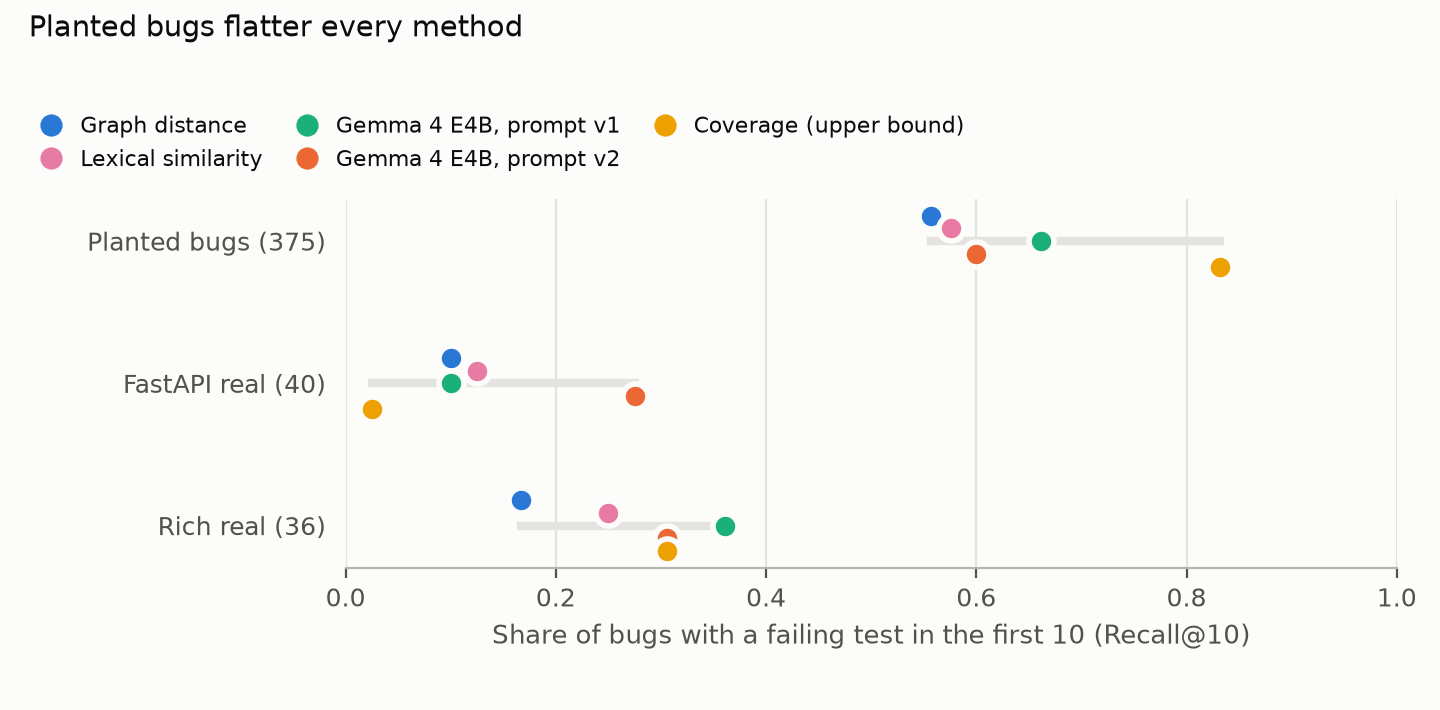
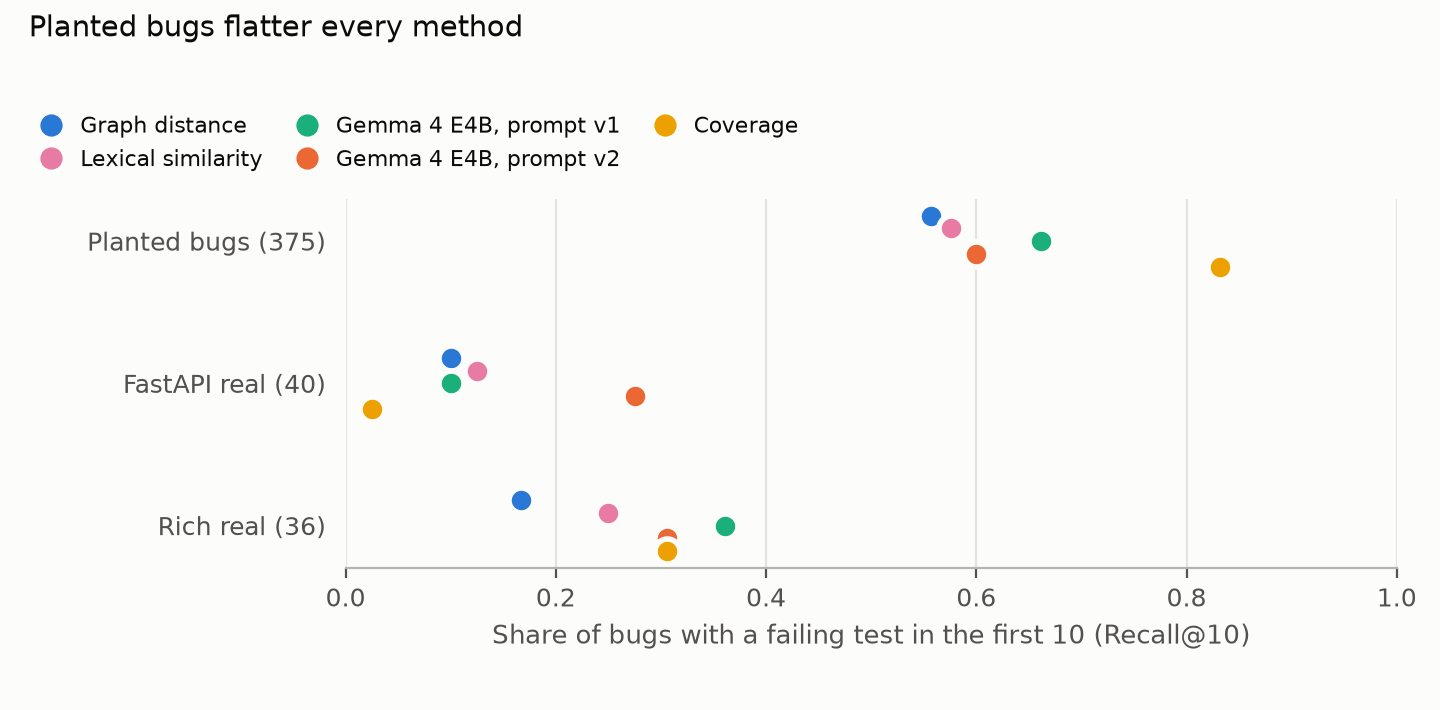
Stranger-test fixes; writeup body

diff --git a/paper/writeup_body.md b/paper/writeup_body.md
@@ -1,55 +1,58 @@
-**Summary.** A new use of code graphs: deciding which tests to run first after an edit. A small local Gemma 4 model lifts planted-bug Recall@10 from 56% to 66%; on 76 real regressions replayed from the competition's own tasks the picture is harder and more mixed, and we report all of it.
+## Key findings
 
+**Takeaway:** order tests by code-graph distance, add a small local model in parallel, and judge the result on real regressions, because planted bugs make every method look better than it is.
 
-*Dhiraj Kavuri*
+We measure Recall@10, the share of bugs whose failing test is among the first 10 tests run. *Planted* bugs are one-operator edits we injected; *real* regressions undo genuine fixes from the competition's own tasks.
+
+- **On planted bugs, a small local model helps.** Graph distance puts a failing test in the first 10 for 56% of 375 bugs; Gemma 4 E4B re-ranking raises that to 66% (+10.4 points, 95% interval +6.7 to +14.1), mostly by finding tests the graph cannot reach, such as tests that call dunder methods through Python syntax.
+- **Planted bugs flatter every method.** On 76 real regressions from the competition's FastAPI and Rich tasks, the best method reaches at most 42%. Our pre-registered prompt helps on Rich but not FastAPI; a second prompt that also shows the model tests sharing words with the change fixes FastAPI but did not pass its held-out test on Rich.
+- **The competition's provided graph links few tests to code.** Only 285 of its 2,752 call edges run from tests into FastAPI code, and it reaches fewer failing tests than a plain AST graph.
+- **The model's latency can cost nothing.** Started in parallel with graph-distance tests, it never slowed the loop on average in our data.
 
 ## Abstract
 
-A coding agent on a laptop checks its edits by running tests, and full runs are slow. We study regression test selection for this setting: after a change, order the tests so a failing one comes early. On 375 single-operator bugs planted in five Python repositories, including the competition's FastAPI snapshot, graph distance in a static call graph puts a failing test in the first 10 for 56% of bugs; Gemma 4 E2B and E4B re-ranking raise this to 61% and 66% (paired gains of 5.6 and 10.4 points, intervals above zero), mostly by finding tests the graph cannot reach. The competition's provided graph reaches fewer failing tests than a plain AST graph. We then replay 76 real regressions by undoing real fixes from the competition's FastAPI and Rich tasks. Every method does far worse; the pre-registered prompt adds nothing on FastAPI but E4B gains 19 points on held-out Rich, and a second prompt designed on FastAPI did not pass its pre-registered held-out test. Started in parallel with graph-distance tests, the model never slows the loop. Analysis plans were hashed before the runs they cover; a public notebook rebuilds every number from cached model answers.
+A coding agent on a laptop checks its edits by running tests, and full runs are slow. We study regression test selection for this setting: after a change, order the tests so a failing one comes early. We plant 375 single-operator bugs in five Python repositories, including the competition's FastAPI snapshot, and replay 76 real regressions by undoing real fixes from the competition's FastAPI and Rich tasks. We compare six non-model methods, the competition's provided graph and embeddings, and Gemma 4 E2B and E4B re-ranking. The models help clearly on planted bugs and unevenly on real ones: the pre-registered prompt adds nothing on FastAPI but E4B gains 19 points on held-out Rich, and a second prompt designed on FastAPI did not pass its pre-registered held-out test. We release the benchmark, a drop-in skill for the competition's agent harness, and a notebook that rebuilds every number from cached model answers.
 
 ## 1. Introduction
 
 Coding agents fix bugs in a loop: read, edit, run tests, repeat. This competition asks how far that loop can go with Gemma 4 on one accelerator under a time budget, and every full test run spends budget. Developers have the same problem on their own machines.
 
-Regression test selection asks which tests to run first after a change. Classic tools use static dependencies or recorded coverage; agent scaffolds ask a large hosted model. We ask whether a small local model, given a code graph like the one the competition gives its agents, helps, and when its latency is worth paying. The task suits a small model: it ranks a few dozen candidates, and the static graph has blind spots (inheritance, decorators, syntax-driven calls) where reading code helps.
+Regression test selection asks which tests to run first after a change. Classic tools use static dependencies or recorded coverage; agent scaffolds ask a large hosted model. We ask whether a small local model, given a code graph like the one the competition gives its agents, helps, and when its latency is worth paying.
 
 Contributions:
-1. 375 planted bugs in five repositories and 76 real regressions replayed from the competition's FastAPI and Rich tasks, with full kill matrices (which tests fail for each bug), released with the code that rebuilds them.
-2. Six non-model methods, the competition's graph and embeddings, and two Gemma 4 sizes compared on the same bugs, with an analysis plan fixed in advance.
-3. Evidence that planted bugs overstate test selection, and a schedule under which the model's latency costs nothing.
+1. The first study, to our knowledge, of code graphs and small local models for test selection, scored directly against kill matrices (which tests fail for each bug).
+2. A replay benchmark: 76 real regressions built from the competition's own tasks, plus 375 planted bugs, released with the code that rebuilds them.
+3. Evidence that planted bugs overstate test selection, a schedule under which the model's latency costs nothing, and a ready-to-use skill for the competition's harness.
 
-## 2. Task and data
+## 2. Data
 
-**Repositories.** Four small pure-Python libraries (cachetools, toolz, humanize, sortedcontainers) and FastAPI at the competition's snapshot for task `fastapi_15800` (commit `f1d750f`), so that the competition's provided code graph and node embeddings match the code exactly. Measured on one core, the suites take from 2 to 31 seconds. Commits are pinned in the notebook.
+**Planted bugs.** Four small libraries (cachetools, toolz, humanize, sortedcontainers) and FastAPI at the competition's snapshot for task `fastapi_15800`, so the provided graph and embeddings match the code. In each, we swap one operator (comparison, arithmetic, `and`/`or`, boolean or 0/1 constant) at a uniformly sampled site, run the full suite, and keep the bug only if a test that passes on the original now fails: 80 per library, 60 for FastAPI, 375 after dropping five whose failing tests were missing from the profiling run. Suites take 2 to 31 seconds on one core.
 
-**Bugs.** For each repository we parse every source module, list the sites where one operator can be swapped (comparisons, arithmetic, `and`/`or`, boolean and 0/1 constants), sample sites uniformly with a fixed seed, apply one swap, and run the full suite. A mutant is kept only if at least one test that passes on the original code now fails. We stop at 80 kept mutants per small library and 60 for FastAPI. Five mutants whose failing tests were missing from the clean profiling run are dropped, leaving 375. Planted bugs are a common stand-in for real faults when ground truth must be exact (Just et al., 2014); Section 4.5 adds real regressions.
+**Real regressions.** For each competition task whose fix edits an existing function, we check out the base commit with its own dependencies, apply the fix and its tests, then undo the fix. Tests that pass with the fix and fail without it are the ground truth. 40 FastAPI and 36 Rich tasks qualified (median 1 to 2 failing tests); tasks adding new code, timing out, or failing with the fix applied were dropped.
 
-**Ground truth and cost.** For every kept bug we store the ids of all failing tests. One extra clean run records each test's runtime and, with coverage.py's per-test contexts, which lines each test executed.
+**Profiles.** One clean run per repository state records each test's runtime and, with coverage.py's per-test contexts, the lines it executed.
 
 ## 3. Methods
 
-Every method returns a full ordering of the suite; a partial ranking is completed in the suite's default order.
+Every method returns a full ordering; a partial ranking is completed in default order.
 
 - **Full suite**: pytest's default order.
-- **Name match**: tests whose name contains the changed function's name, or whose file contains the module's name, first.
-- **Reachability**: tests from which the changed function is reachable in the static call graph first.
-- **Graph distance**: reachable tests by shortest-path length to the changed function.
+- **Name match**: tests whose name or file contains the changed function's or module's name.
+- **Reachability** and **graph distance**: tests that reach the changed function in a static call graph, the second ordered by shortest-path length.
 - **Lexical similarity**: TF-IDF cosine between the changed function's source and each test's source.
-- **Coverage**: tests that executed the changed line first. It needs a recorded run of every test, so it is an upper bound, not a competitor.
+- **Coverage**: tests that executed the changed line (on real regressions, the changed function). It needs a recorded run of every test. On planted bugs it is an upper bound; on real regressions it is not, because the failing tests are usually new tests written with the fix, which cover the function no more than hundreds of older tests do.
 - **Provided graph and embeddings** (FastAPI): graph distance over the competition's call graph, and cosine of its 256-dimensional node embeddings.
-- **Gemma re-rank**: Gemma 4 E2B or E4B (4-bit QAT, Ollama, temperature 0) sees the diff, the function's source, its callers and callees, the 30 nearest tests by graph distance, and the names of other tests (at most 600, alphabetical). It returns up to 15 entries, candidate numbers or other test names (at most five); unknown names are dropped and counted. Its list goes first, then the graph-distance order.
+- **Gemma re-rank**: Gemma 4 E2B or E4B (4-bit QAT, Ollama, temperature 0) sees the diff, the function's source, its callers and callees, and candidate tests, and returns up to 15 entries. **Prompt v1** (pre-registered) gives the 30 nearest tests by graph distance plus up to 600 other test names. **Prompt v2** (written after the FastAPI real results) gives 15 graph and 15 lexical candidates plus the full list of test files. The model's list goes first, then graph distance.
 
-**Code graph.** A symbol graph from Python ASTs with `contains`, `calls` and `imports` edges, the node and edge types of the competition's graphs. Calls are resolved by name; names matching more than eight definitions are skipped.
+**Code graph.** Built from Python ASTs with `contains`, `calls` and `imports` edges, the node and edge types of the competition's graphs; calls are resolved by name.
 
-**Metrics** (fixed in the plan). Primary: Recall@k, the share of bugs with a failing test in the first k, for k = 1, 5, 10 and 10% of the suite. Secondary: time to first failure (test runtimes up to the first failing test, plus model wall time), recovered static misses, and break-even suite runtime. 95% bootstrap intervals over bugs, stratified by repository, 10,000 resamples.
+**Metrics** (fixed in the plan). Recall@k: the share of bugs with a failing test in the first k (k = 1, 10, and 10% of the suite). Time to first failure: test runtime up to the first failing test, plus model time. 95% bootstrap intervals, stratified by repository, 10,000 resamples.
 
 ## 4. Results
 
-### 4.1 Which tests come first
+### 4.1 Planted bugs
 
-Table 1 pools all 375 bugs. The default order finds a failing test within the first 10 tests for 12% of bugs, graph distance for 56%, lexical similarity for 58%, Gemma 4 E2B for 61% and E4B for 66%. Coverage, which needs a recorded run of every test, reaches 83%.
-
-**Table 1.** Share of bugs with a failing test among the first k tests (n = 375), 95% bootstrap intervals.
+**Table 1.** Share of planted bugs with a failing test among the first k tests (n = 375).
 
 | Method | k = 1 | k = 10 | 10% of suite |
 |---|---|---|---|
@@ -64,47 +67,31 @@ Table 1 pools all 375 bugs. The default order finds a failing test within the fi
 
 ![Figure 1](https://raw.githubusercontent.com/kinnuworks/which-tests-first/master/paper/figs/fig1_recall_at_k.png)
 
-**Figure 1.** Share of bugs caught within the first k tests, pooled over 375 bugs.
+**Figure 1.** Share of planted bugs caught within the first k tests.
 
-The pre-registered comparison is the paired difference in Recall@10 against graph distance. E2B adds 5.6 points [+3.2, +8.3] and E4B adds 10.4 points [+6.7, +14.1]. Against lexical similarity, a comparison we added after seeing that it was strong, E4B adds 8.5 points [+2.9, +13.9], while the E2B difference (+3.7 [−1.9, +9.1]) is not distinguishable from zero.
+The pre-registered comparison is the paired difference in Recall@10 against graph distance: E2B +5.6 points [+3.2, +8.3], E4B +10.4 [+6.7, +14.1]. Against lexical similarity (added after seeing it was strong), E4B gains 8.5 points [+2.9, +13.9] and E2B is not distinguishable from zero.
 
-The gain is uneven across repositories (Table 2). It is largest where the static graph is blind. In cachetools, 48 of 79 bugs had no failing test reachable in the graph, largely because much of the behaviour sits in dunder methods (`__contains__`, `__iter__`, `__setitem__`) that tests call through Python syntax, not by name. There E4B lifts Recall@10 from 0.42 to 0.62. On humanize, where every bug was reachable, the models match graph distance. On sortedcontainers, lexical similarity beats both models.
+**Table 2.** Recall@10 by repository. "Misses": bugs with no failing test reachable in our static graph.
 
-**Table 2.** Recall@10 by repository. "Misses" counts bugs for which no failing test is reachable in our static graph.
+| Repository | Bugs | Suite (s) | Misses | Graph dist. | Lexical | E2B | E4B | Coverage |
+|---|---|---|---|---|---|---|---|---|
+| cachetools | 79 | 1.9 | 48 | 0.42 | 0.54 | 0.53 | 0.62 | 0.78 |
+| toolz | 78 | 2.0 | 24 | 0.67 | 0.76 | 0.74 | 0.81 | 0.96 |
+| humanize | 80 | 1.9 | 0 | 0.69 | 0.39 | 0.71 | 0.68 | 0.88 |
+| sortedcontainers | 78 | 23.5 | 16 | 0.62 | 0.83 | 0.65 | 0.77 | 0.91 |
+| FastAPI (snapshot) | 60 | 31.3 | 29 | 0.35 | 0.30 | 0.37 | 0.37 | 0.57 |
 
-| Repository | Bugs | Tests | Suite (s) | Misses | Graph dist. | Lexical | E2B | E4B | Coverage |
-|---|---|---|---|---|---|---|---|---|---|
-| cachetools | 79 | 416 | 1.9 | 48 | 0.42 | 0.54 | 0.53 | 0.62 | 0.78 |
-| toolz | 78 | 192 | 2.0 | 24 | 0.67 | 0.76 | 0.74 | 0.81 | 0.96 |
-| humanize | 80 | 746 | 1.9 | 0 | 0.69 | 0.39 | 0.71 | 0.68 | 0.88 |
-| sortedcontainers | 78 | 366 | 23.5 | 16 | 0.62 | 0.83 | 0.65 | 0.77 | 0.91 |
-| FastAPI (snapshot) | 60 | 3,207 | 31.3 | 29 | 0.35 | 0.30 | 0.37 | 0.37 | 0.57 |
+The gain is largest where the static graph is blind. In cachetools, 48 of 79 bugs had no failing test reachable in the graph, largely because behaviour sits in dunder methods (`__contains__`, `__iter__`) that tests call through syntax, not by name; there E4B lifts Recall@10 from 0.42 to 0.62. For a bug in `TTLCache.__iter__`, graph distance puts the first failing test at position 412 and E4B puts `test_ttl_iter_expired` second. Across the 117 bugs the graph cannot reach, E4B proposed a failing test from outside its reach for 40. Proposals cost precision: for 135 of the 181 bugs where E4B proposed outside tests, none of them failed, and it named 174 tests that do not exist.
 
-### 4.2 What the model adds: tests the graph cannot reach
+On the FastAPI snapshot, the competition's provided graph reached a failing test less often than our AST graph (Recall@10 0.22 [0.12, 0.32] against 0.35 [0.23, 0.47]), and its embeddings did about as well as lexical similarity (0.32 against 0.30). Only 285 of its 2,752 call edges run from tests into FastAPI code. Adding test-to-code edges, for example by resolving calls made through the `TestClient`, would make the provided graph far more useful for this task.
 
-For the 117 planted bugs where the static graph reaches no failing test, E4B proposed a failing test from outside its reach for 40 and E2B for 18. For a bug in `TTLCache.__iter__`, graph distance puts the first failing test at position 412 and E4B puts `test_ttl_iter_expired` second; for `TLRUCache.__contains__` it is 347 against 5. Proposals cost precision: E4B proposed outside tests for 181 bugs and none failed in 135 of them, named 174 tests that do not exist, and returned invalid JSON 28 times in 375.
+### 4.2 Real regressions
 
-### 4.3 The provided code graph and embeddings
+![Figure 3](https://raw.githubusercontent.com/kinnuworks/which-tests-first/master/paper/figs/fig3_planted_vs_real.png)
 
-On the FastAPI snapshot we also ranked tests with the competition's own graph and embeddings. The provided graph reached a failing test less often than our AST graph (Recall@10 0.22 [0.12, 0.32] against 0.35 [0.23, 0.47]): only 285 of its 2,752 call edges run from tests into FastAPI code. The provided embeddings did about as well as lexical similarity (0.32 against 0.30). Neither model beat graph distance here (both 0.37), while coverage reached 0.57, plausibly because most FastAPI tests reach the changed code through the `TestClient` and the framework's request handling, which a name-resolved graph does not see.
+**Figure 3.** Recall@10 on planted bugs and on real regressions. Dots are offset vertically so none hide.
 
-### 4.4 When is the model worth its latency?
-
-Median model time per change was 2.5 s for E2B and 13.9 s for E4B. On our suites graph distance usually reaches a failing test within a fraction of a second, so run first, the model loses on time everywhere (Figure 2).
-
-![Figure 2](https://raw.githubusercontent.com/kinnuworks/which-tests-first/master/paper/figs/fig2_time_to_failure.png)
-
-**Figure 2.** Median seconds until the first failing test, model time included for Gemma rows (log scale).
-
-Scaling every test's runtime by s while model time stays fixed, the model's mean time to first failure drops below graph distance's at a pooled suite of about 15 minutes (E4B) to 16 minutes (E2B) on one core.
-
-The latency need not be paid in sequence. In a **hybrid schedule** tests start at once in graph-distance order while the model thinks, then switch to the model's order, skipping tests already run. On our suites the hybrid is never slower on average (pooled 1.47 s vs 1.49 s), because fast suites find the bug before the model answers. With runtimes scaled by 10, 100 and 300, the E4B hybrid reaches the first failure 9%, 11% and 14% sooner than graph distance. Both analyses were not in the plan and assume uniform slow-down; they are guides, not measurements.
-
-### 4.5 Real regressions
-
-To test real bugs we replayed the competition's tasks for two repositories. For each task whose fix edits an existing function, we checked out the base commit with its dependencies, applied the fix and its tests, then undid the fix; tests that pass with the fix and fail without it are the ground truth. 40 FastAPI and 36 Rich tasks qualified (median 1 to 2 failing tests); tasks adding new code, timing out or failing with the fix were dropped. Coverage here spans the whole changed function.
-
-**Table 3.** Real regressions (fix undone): Recall@10 with 95% bootstrap intervals over tasks, and median rank of the first failing test.
+**Table 3.** Real regressions (fix undone): Recall@10, and median rank of the first failing test.
 
 | Method | FastAPI (40) | rank | Rich (36) | rank |
 |---|---|---|---|---|
@@ -116,29 +103,45 @@ To test real bugs we replayed the competition's tasks for two repositories. For 
 | E2B, prompt v2 | 0.25 [0.12, 0.40] | 189 | 0.42 [0.25, 0.58] | 27 |
 | E4B, prompt v2 | 0.28 [0.15, 0.42] | 199 | 0.31 [0.17, 0.47] | 21 |
 
-Every method does far worse than on planted bugs. The failing tests are usually the ones written with the fix, and the changed functions are run by hundreds of other tests, so coverage ranks them late on FastAPI. With the pre-registered prompt (v1), the models add nothing on FastAPI, where only 4 of 40 tasks had a failing test among the 30 graph candidates and the list of other names was cut at 600 of about 3,200. On Rich, which we built afterwards and did not tune on, E4B with prompt v1 beats graph distance by 19.4 points [+8.3, +33.3].
+Every method does far worse than on planted bugs (Figure 3). The failing tests are usually the ones written with the fix, and the changed functions are run by hundreds of other tests, so even coverage ranks them late on FastAPI.
 
-From the FastAPI diagnosis we wrote prompt v2: 15 candidates from graph distance and 15 from lexical similarity, and the full list of test files. We froze an addendum before running it anywhere else. On FastAPI (post hoc) it lifts E4B to 0.28. On held-out Rich, the pre-registered test, E4B v2 minus graph distance, gave +13.9 points with an interval of [0.0, +27.8], so it is not confirmed; E2B v2 gained +25.0 [+11.1, +38.9]. On the planted bugs v2 helps E2B (0.61 to 0.66) and hurts E4B (0.66 to 0.60). No prompt wins everywhere, lexical similarity is a strong cheap baseline on real regressions, and planted-bug benchmarks overstate how well any method selects tests.
+With the pre-registered prompt, the models add nothing on FastAPI: only 4 of 40 tasks had a failing test among the 30 graph candidates, and the new tests were rarely in the 600 other names. On Rich, built afterwards and never tuned on, E4B with prompt v1 beats graph distance by 19.4 points [+8.3, +33.3].
+
+Prompt v2 fixes the FastAPI blind spot (E4B 0.28, post hoc). We froze its held-out test before running it anywhere else, and in plain words it failed: a prompt tuned on one repository did not reliably transfer to another (Rich, E4B v2 minus graph distance +13.9 points, interval [0.0, +27.8]). E2B with v2 did transfer (+25.0 [+11.1, +38.9]), and on planted bugs v2 helps E2B (0.61 to 0.66) but hurts E4B (0.66 to 0.60).
+
+### 4.3 What it costs an agent
+
+Median model time per change was 2.5 s for E2B and 13.9 s for E4B. Graph distance usually reaches a failing planted bug within a fraction of a second, so run first, the model loses on time (Figure 2).
+
+![Figure 2](https://raw.githubusercontent.com/kinnuworks/which-tests-first/master/paper/figs/fig2_time_to_failure.png)
+
+**Figure 2.** Median seconds until the first failing test, model time included for Gemma rows (log scale).
+
+The latency need not be paid in sequence. In a **hybrid schedule** tests start at once in graph-distance order while the model thinks, then switch to the model's order, skipping tests already run. It was never slower on average on our suites (pooled 1.47 s against 1.49 s), and with test runtimes scaled by 10, 100 and 300 the E4B hybrid reached the first failure 9%, 11% and 14% sooner than graph distance. On the real regressions, whose suites take a median 12 to 14 s per run, E4B with prompt v2 reached the first failing test after a median 0.6 s (FastAPI) and 0.3 s (Rich) of test time, against 1.6 s and 2.9 s for graph distance. These latency analyses were not in the plan and are guides, not measurements.
+
+### 4.4 A recipe for agents
+
+1. Order tests by call-graph distance from the changed functions; it costs nothing and is a strong baseline.
+2. Interleave tests that share identifiers with the changed code; on real regressions this catches tests written for the bug.
+3. If a local model is available, start the tests at once and let the model re-rank in parallel (hybrid), so its latency never blocks.
+4. Evaluate on replayed real regressions, not only planted bugs.
+
+Steps 1 and 2 ship as `skills/which_tests_first`, an ADK skill in the competition's submission format that reads the agent's own `git diff` and needs no model call.
 
 ## 5. Related work
 
-**Static and dynamic RTS.** Ekstazi (Gligoric et al., 2015) selects tests from recorded file dependencies; STARTS (Legunsen et al., 2017) does it statically from class-level dependencies. Google's pre-submit system (Regression Test Selection at Scale) ranks tests over a hybrid call graph at very large scale. Our graph-distance and coverage baselines are small versions of these two families.
-
-**LLMs for test selection in agents.** Agentless (Xia et al., 2024) asks a hosted model which tests relate to an edit; TestPrune (2025) predicts suspicious methods from an issue and minimises the suite through coverage. Both use large hosted models and judge selection only through issue resolution; we score it directly, with laptop-sized models.
-
-**Mutants as faults.** Mutant detection correlates with real-fault detection for test suites (Just et al., 2014); Section 4.5 shows the gap can still be large for selection.
+Ekstazi (Gligoric et al., 2015) selects tests from recorded file dependencies and STARTS (Legunsen et al., 2017) from static class dependencies; Google ranks tests over a hybrid call graph at scale (Regression Test Selection at Scale). Our graph-distance and coverage baselines are small versions of these. Agentless (Xia et al., 2024) asks a hosted model which tests relate to an edit; TestPrune (2025) predicts suspicious methods and minimises the suite through coverage. Both use large hosted models and judge selection only through issue resolution; we score it directly, with laptop-sized models. Mutant detection correlates with real-fault detection (Just et al., 2014); Section 4.2 shows the gap can still be large for selection.
 
 ## 6. Limitations
 
-- **Small real sets.** 76 real regressions from two repositories give wide intervals, and the second prompt was designed after seeing the FastAPI half.
-- **Python only, five repositories.** The static graph's blind spots are Python's (inheritance, decorators, dynamic attributes). Languages with explicit types would give a denser graph and likely a smaller gap for the model.
-- **Two prompts, two small models.** Prompt v1 was fixed in advance; v2 was written after the FastAPI real results and is labelled so. Larger models may do better.
-- **Latency is hardware-specific.** Model times come from one Apple M5 laptop with 16 GB of memory.
-- **Memorisation.** These popular projects may be in Gemma's training data; the bugs are new, the test names are not.
+- **Small real sets.** 76 real regressions from two repositories give wide intervals; prompt v2 was designed after seeing the FastAPI half.
+- **Python only.** The static graph's blind spots are Python's (inheritance, decorators, dynamic attributes).
+- **Two small models, one laptop.** Latency comes from an Apple M5 with 16 GB; larger models may do better.
+- **Memorisation.** These projects may be in Gemma's training data; the bugs are new, the test names are not.
 
 ## 7. Reproducibility
 
-The analysis plan (`analysis_plan.md`, SHA-256 `9410...a9fd`) was committed before any selection method ran, and an addendum for prompt v2 (`analysis_plan_addendum_v2.md`, SHA-256 `c55d...7d09`) before v2 ran on Rich or the planted bugs. The public notebook (Kaggle, linked from the writeup) and the GitHub repository contain the planted bugs, kill matrices, per-test runtimes and coverage, every model prompt and answer (cached by prompt hash), and the scripts. Running it on CPU rebuilds every table and figure without calling a model. Two pipeline faults were found and fixed during the study, and both runs are kept: FastAPI prompts first overflowed a 16k context (raised to 32k and rerun), and test names given without their `[parameter]` suffix were first counted as unknown (now expanded to all variants and re-scored from cache). Re-running the models needs Ollama with `gemma4:e2b-it-qat` and `gemma4:e4b-it-qat`.
+The analysis plan (`analysis_plan.md`, SHA-256 `9410...a9fd`) was committed before any method ran, and the prompt v2 addendum (`c55d...7d09`) before v2 ran on Rich or the planted bugs. The public repository and Kaggle notebook contain the bugs, kill matrices, per-test runtimes, every model prompt and answer cached by hash, and the scripts; the notebook rebuilds every table and figure on CPU without calling a model (about 2.5 minutes on Kaggle). Two pipeline faults were found and fixed, with both runs kept: FastAPI prompts first overflowed a 16k context (rerun at 32k), and test names without their `[parameter]` suffix were first counted as unknown (re-scored from cache).
 
 ## References
 
@@ -149,3 +152,8 @@ The analysis plan (`analysis_plan.md`, SHA-256 `9410...a9fd`) was committed befo
 - When Old Meets New: Evaluating the impact of regression tests on SWE issue resolution (TestPrune) (2025). arXiv:2510.18270.
 - Regression Test Selection at Scale. Google Research. https://research.google/pubs/regression-test-selection-at-scale-2/
 - Markowitz, E., et al. (2026). Google - The Gemma 4 Developer Agent Competition. Kaggle.
+
+## Links
+
+- Code, data and cached model answers: https://github.com/kinnuworks/which-tests-first
+- Notebook that rebuilds every number: https://www.kaggle.com/code/dhirajkavuri/which-tests-should-run-first-rebuild-every-number

diff --git a/paper/paper.md b/paper/paper.md
@@ -6,8 +6,12 @@
 
 ## Key findings
 
+**Takeaway:** order tests by code-graph distance, add a small local model in parallel, and judge the result on real regressions, because planted bugs make every method look better than it is.
+
+We measure Recall@10, the share of bugs whose failing test is among the first 10 tests run. *Planted* bugs are one-operator edits we injected; *real* regressions undo genuine fixes from the competition's own tasks.
+
 - **On planted bugs, a small local model helps.** Graph distance puts a failing test in the first 10 for 56% of 375 bugs; Gemma 4 E4B re-ranking raises that to 66% (+10.4 points, 95% interval +6.7 to +14.1), mostly by finding tests the graph cannot reach, such as tests that call dunder methods through Python syntax.
-- **Planted bugs flatter every method.** On 76 real regressions replayed from the competition's own FastAPI and Rich tasks, the best method finds a failing test in the first 10 for at most 42% of tasks, and no prompt or model wins on both repositories.
+- **Planted bugs flatter every method.** On 76 real regressions from the competition's FastAPI and Rich tasks, the best method reaches at most 42%. Our pre-registered prompt helps on Rich but not FastAPI; a second prompt that also shows the model tests sharing words with the change fixes FastAPI but did not pass its held-out test on Rich.
 - **The competition's provided graph links few tests to code.** Only 285 of its 2,752 call edges run from tests into FastAPI code, and it reaches fewer failing tests than a plain AST graph.
 - **The model's latency can cost nothing.** Started in parallel with graph-distance tests, it never slowed the loop on average in our data.
 
@@ -42,7 +46,7 @@ Every method returns a full ordering; a partial ranking is completed in default 
 - **Name match**: tests whose name or file contains the changed function's or module's name.
 - **Reachability** and **graph distance**: tests that reach the changed function in a static call graph, the second ordered by shortest-path length.
 - **Lexical similarity**: TF-IDF cosine between the changed function's source and each test's source.
-- **Coverage**: tests that executed the changed line (on real regressions, the changed function). It needs a recorded run of every test, so it is an upper bound, not a competitor.
+- **Coverage**: tests that executed the changed line (on real regressions, the changed function). It needs a recorded run of every test. On planted bugs it is an upper bound; on real regressions it is not, because the failing tests are usually new tests written with the fix, which cover the function no more than hundreds of older tests do.
 - **Provided graph and embeddings** (FastAPI): graph distance over the competition's call graph, and cosine of its 256-dimensional node embeddings.
 - **Gemma re-rank**: Gemma 4 E2B or E4B (4-bit QAT, Ollama, temperature 0) sees the diff, the function's source, its callers and callees, and candidate tests, and returns up to 15 entries. **Prompt v1** (pre-registered) gives the 30 nearest tests by graph distance plus up to 600 other test names. **Prompt v2** (written after the FastAPI real results) gives 15 graph and 15 lexical candidates plus the full list of test files. The model's list goes first, then graph distance.
 
@@ -91,7 +95,7 @@ On the FastAPI snapshot, the competition's provided graph reached a failing test
 
 ![Figure 3](paper/figs/fig3_planted_vs_real.png)
 
-**Figure 3.** Recall@10 on planted bugs and on real regressions (dots offset vertically so none hide).
+**Figure 3.** Recall@10 on planted bugs and on real regressions. Dots are offset vertically so none hide.
 
 **Table 3.** Real regressions (fix undone): Recall@10, and median rank of the first failing test.
 
